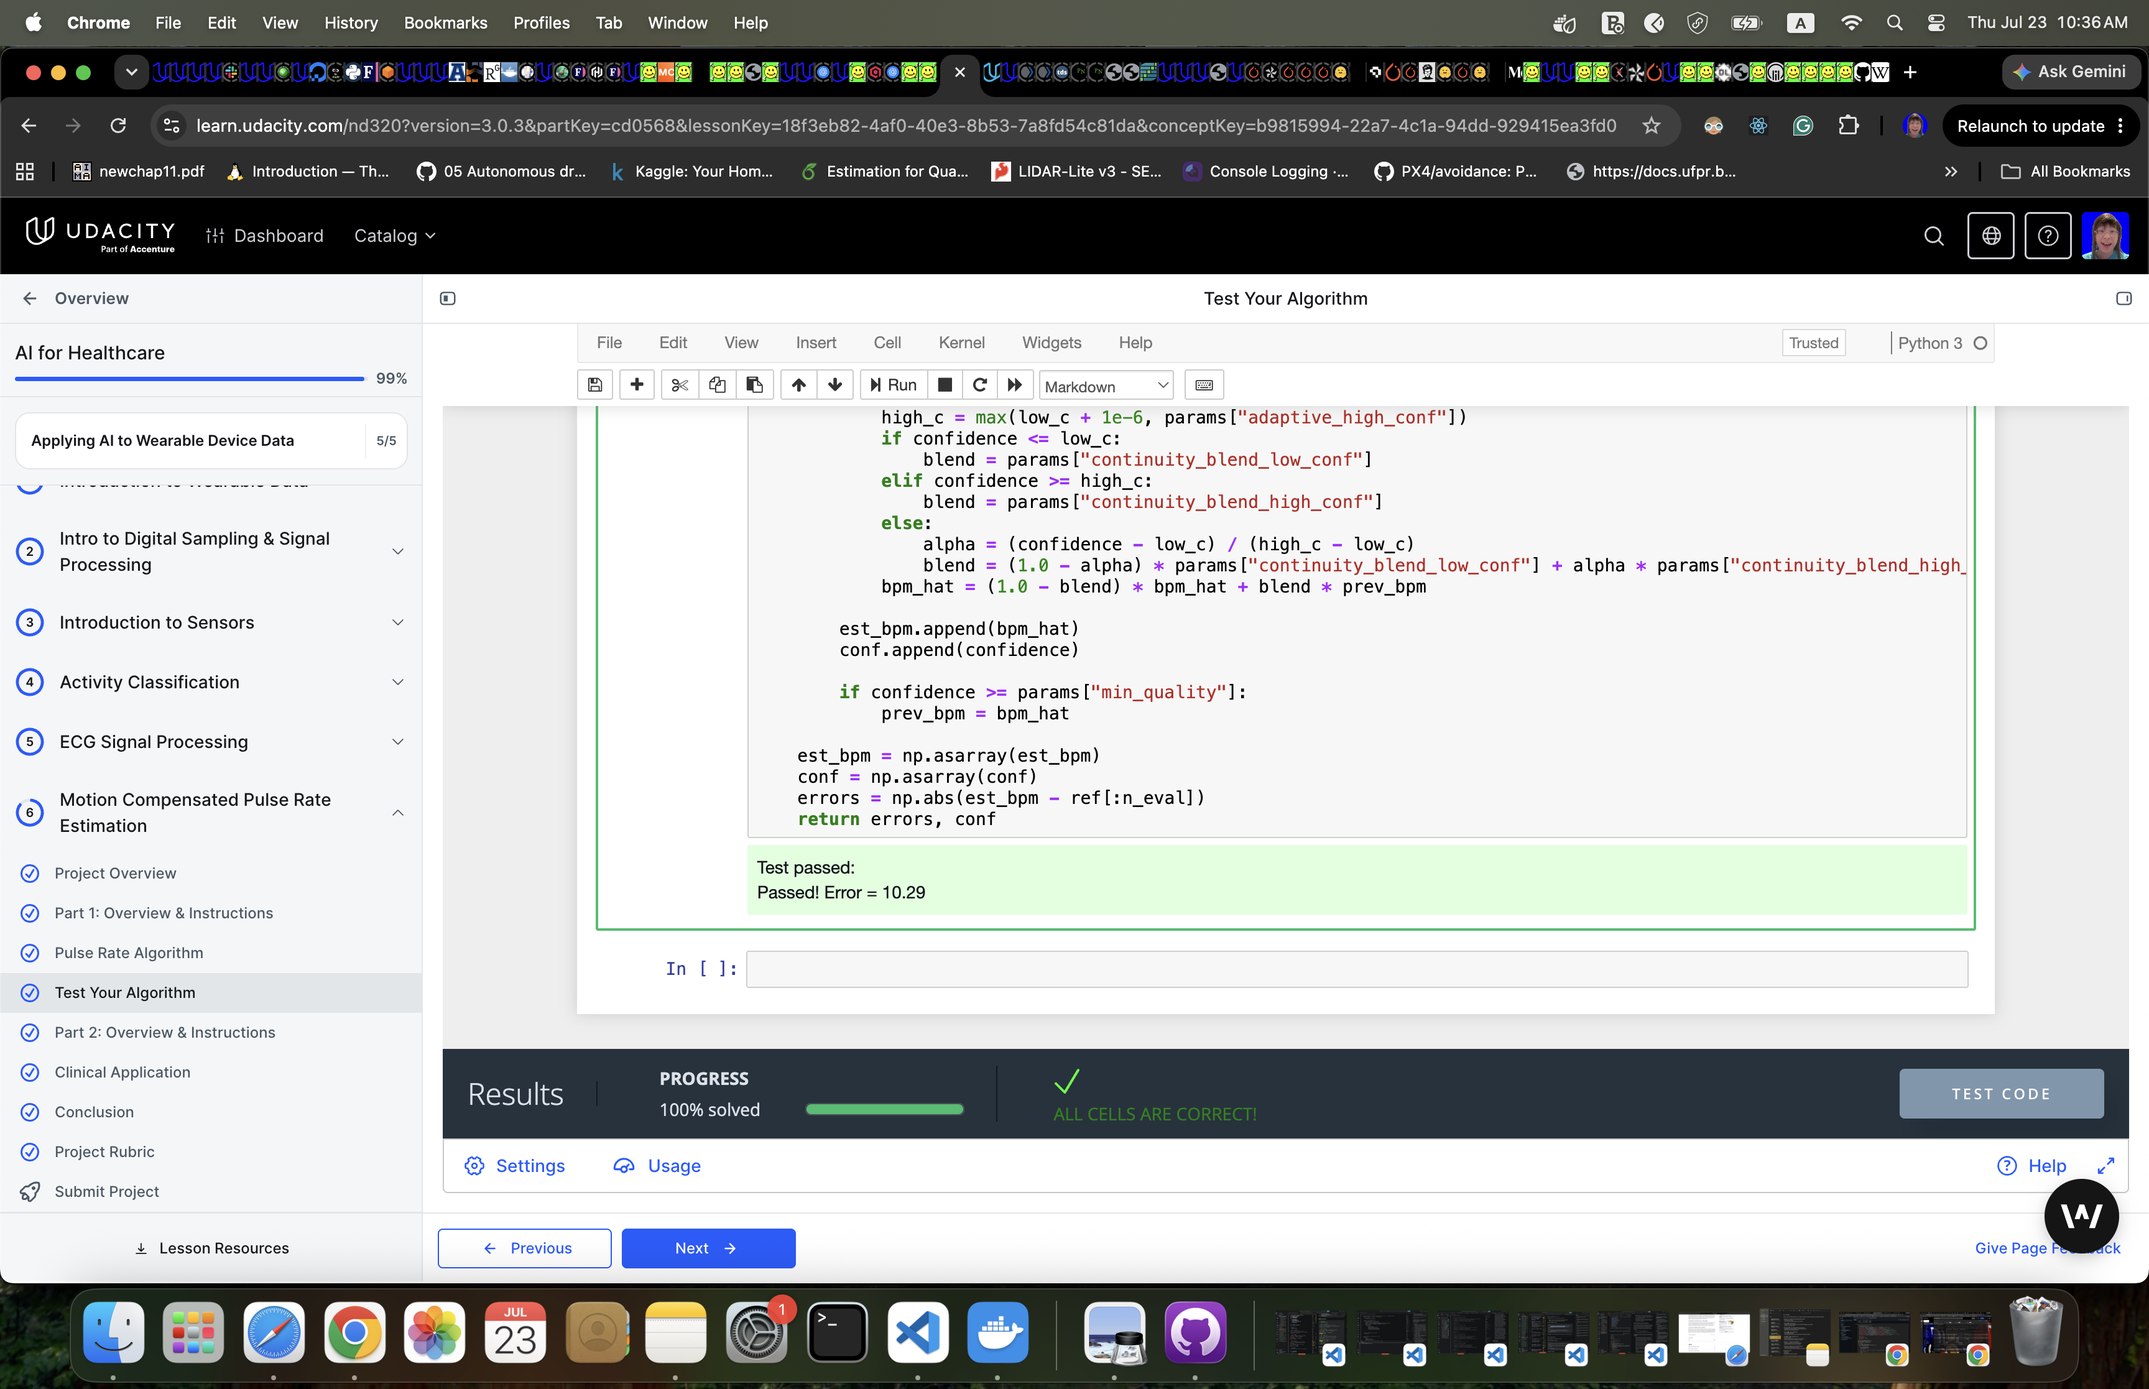
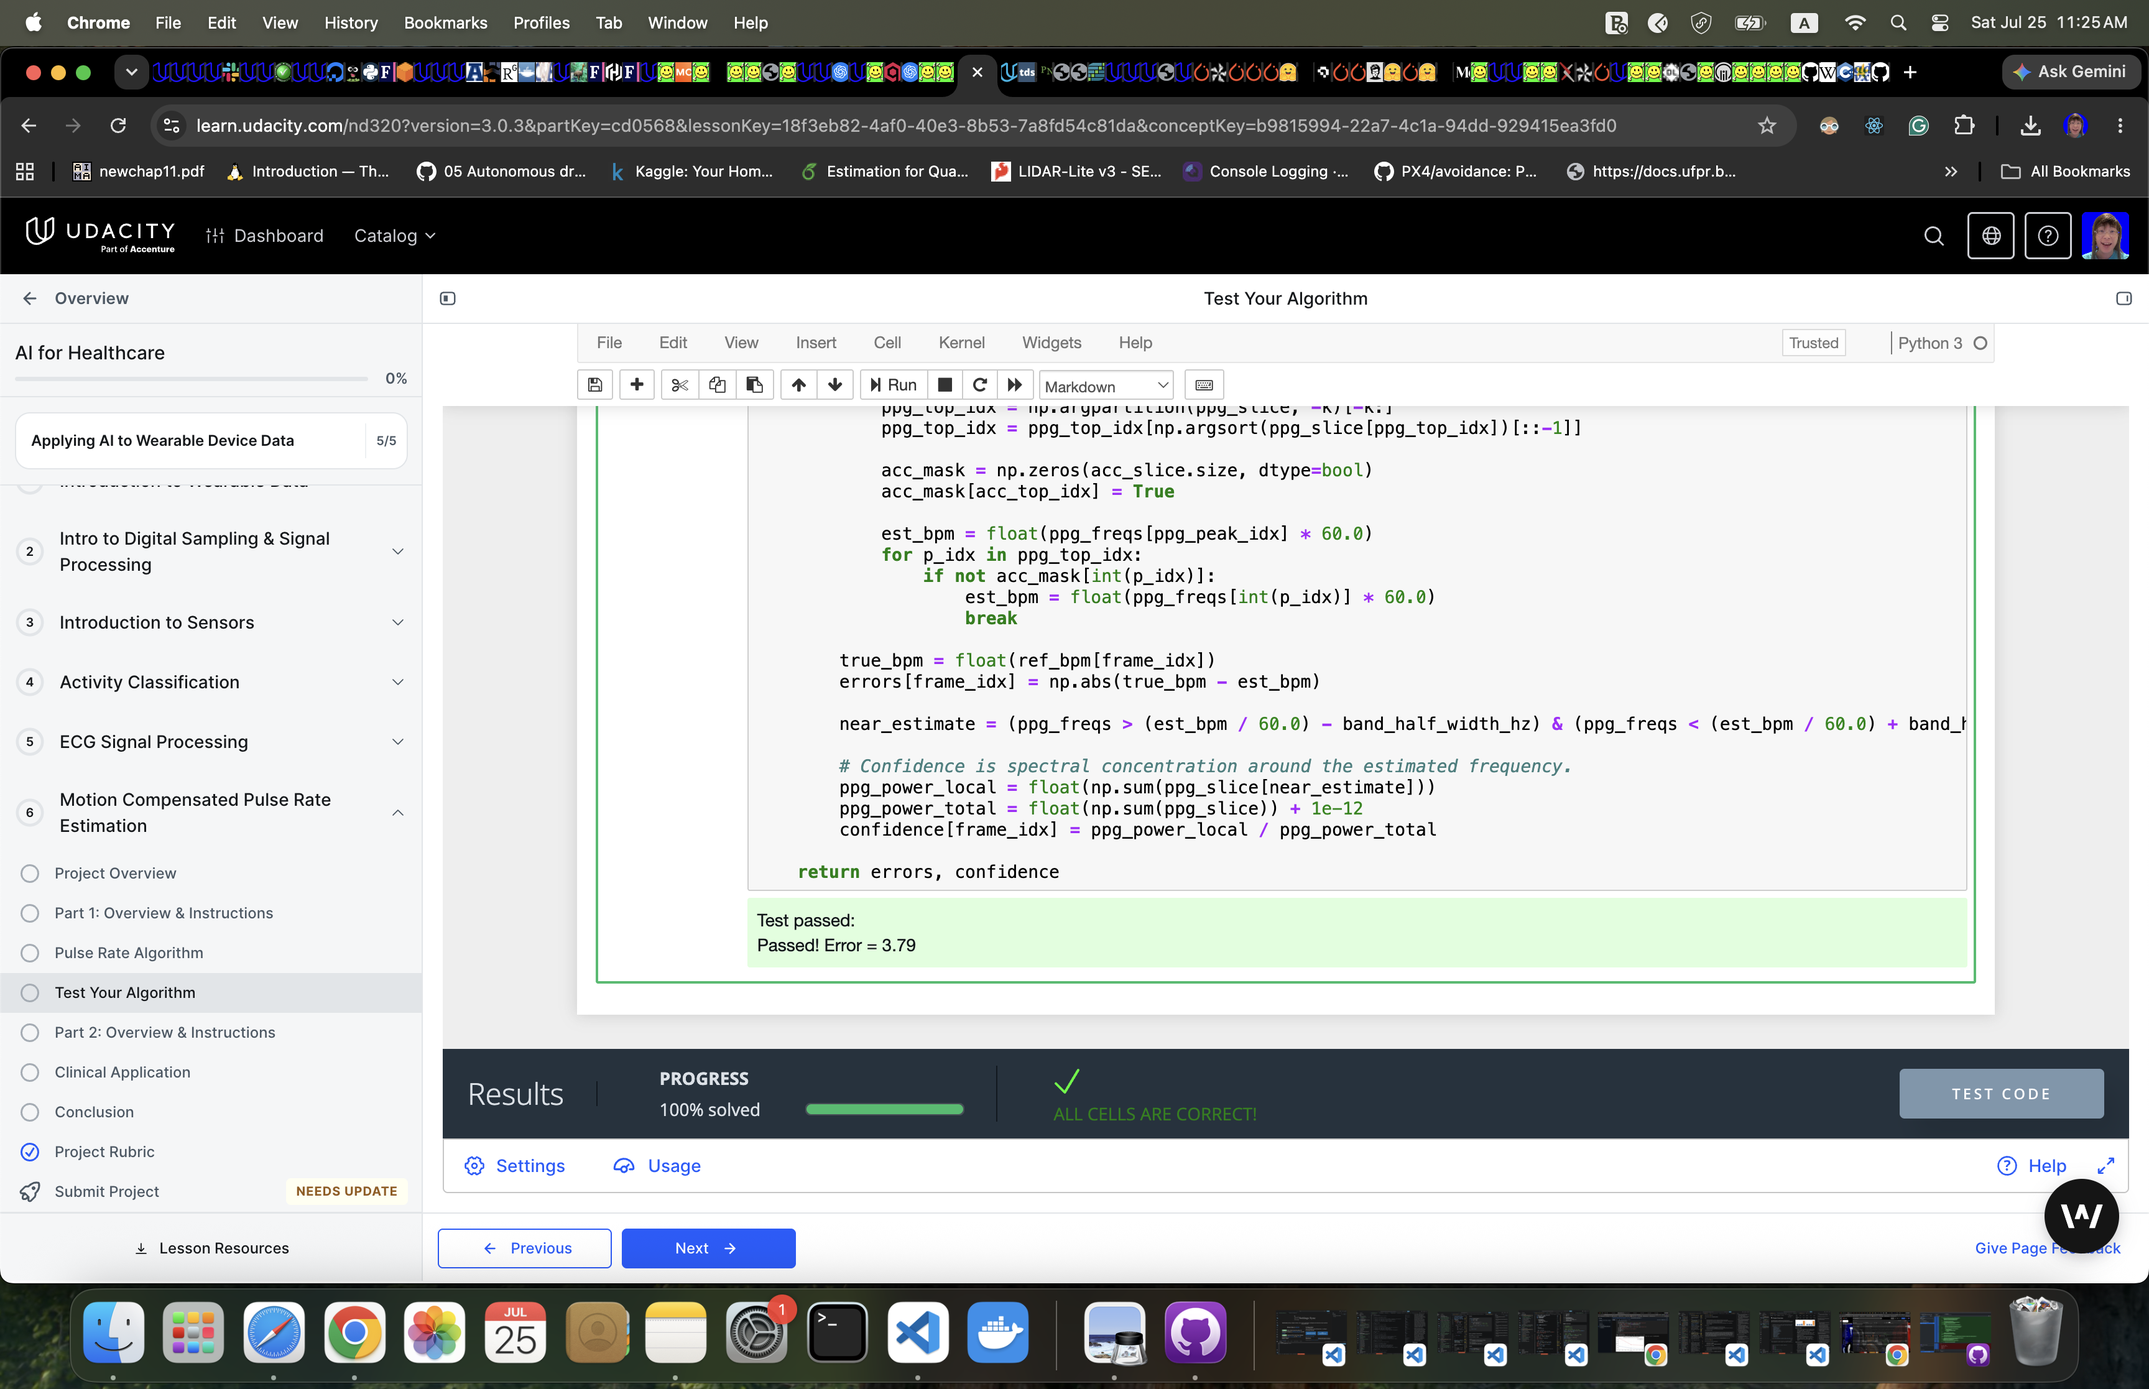
docs: Update README

diff --git a/README.md b/README.md
@@ -61,16 +61,135 @@ Note that the unit test will call `AggregateErrorMetric` on the output of your `
 ### Dataset
 You will be using the Troika<sup>1</sup> dataset to build your algorithm. Find the dataset under datasets/troika/training_data. The README in that folder will tell you how to interpret the data. The starter code contains a function to help load these files.
 
-### Getting Started
-The starter code includes a few helpful functions. 
-- `TroikaDataset`, `AggregateErrorMetric`, and `Evaluate` do not need to be modified.  
-- Use `TroikaDataset` to retreive a list of .mat files containing reference and signal data. 
-- Use `scipy.io.loadmat` to the .mat file into a python object. 
-- The bulk of the code will be in the `RunPulseRateAlgorithm` function. You can and should break the code out into multiple functions. 
-- `RunPulseRateAlgorithm` will take in two filenames and return a tuple of two numpy arrays--per-estimate pulse rate error and confidence values. Remember to write docstrings for all functions that you write (including `RunPulseRateAlgorithm`)
-- Finally, run the `Evaluate` function to call your algorithm on the Troika dataset and compute an aggregate error metric. While building the algorithm you may want to inspect the algorithm errors on more detail.
+### Code Description
+
+This notebook implements a pulse-rate estimator for the Troika wearable dataset using the photoplethysmography (PPG) signal and three accelerometer channels. The main entry point is `RunPulseRateAlgorithm`, which loads one Troika signal file and its reference heart-rate file, estimates pulse rate every 2 seconds, and returns both per-window absolute error and a confidence score. The helper functions load the dataset, bandpass filter the signals, score candidate frequencies in the heart-rate band, and evaluate aggregate performance with the provided `AggregateErrorMetric` function.
+
+The implementation uses the parsed PPG channel from the provided starter loader (`LoadTroikaDataFile`), which returns the expected Troika channels for this project setup. Accelerometer channels are aggregated as a magnitude signal before motion-aware scoring.
+
+**Setup and Execution**
+
+Use the following execution procedure to reproduce results (use tuned `BEST_PARAMS` from [commit refactor: Improve motion-robust HR estimation and confidence scoring to meet MAE@90 target](https://github.com/polarbeargo/AIHCND-c4-wearable-data-project-starter/blob/9ea15b2f0b0953da42c9ce19a6bb3b60cc7cf61a/part_1/pulse_rate_starter.ipynb)) in this notebook:
+
+1. Ensure the Troika training files exist at `part_1/datasets/troika/training_data` (this folder should contain matching `DATA_*.mat` and `REF_*.mat` files).
+2. Open `part_1/pulse_rate_starter.ipynb` and run cells in dependency order: run top-to-bottom through Cell 5, then run Cell 8 before Cell 7 (Cell 7 uses `evaluate_params` defined in Cell 8) and cell 11 then run cell 6 in the end.
+3. Run from the `part_1` context so the relative path `./datasets/troika/training_data` resolves correctly.
+4. Confirm dependencies are available (`numpy`, `scipy`, `matplotlib`, `pandas`), then execute the main algorithm cell.
+
+Exact invocation examples:
+
+- Full-dataset evaluation:
+  - `Evaluate()`
+  - Expected output: one scalar MAE at 90% availability in BPM (the notebook prints this as `Evaluate() MAE@90%: <value> bpm`).
+
+- Single-trial evaluation:
+  - `data_fls, ref_fls = LoadTroikaDataset()`
+  - `errors, confidence = RunPulseRateAlgorithm(data_fls[0], ref_fls[0])`
+  - Expected output: two NumPy arrays of equal length.
+    - `errors`: per-window absolute BPM error.
+    - `confidence`: per-window confidence in `[0, 1]` used for MAE@90 selection.
+
+**Data Description**
+
+The Troika dataset contains wrist PPG and 3-axis accelerometer recordings collected during intensive exercise, together with reference heart rate. This makes it a good benchmark for motion-corrupted wearable pulse-rate estimation. Its main limitation is scale: it contains relatively few subjects and trials, hence it is easy to overfit thresholds or tuning decisions to a small sample. It also focuses on vigorous exercise conditions and does not represent the full range of everyday wearable usage, skin tone variation, perfusion differences, sensor placement variation, or device hardware differences. A more complete dataset would include more subjects, more repeated sessions, rest and daily-living segments, broader demographics, and multiple wearable devices.
+
+**Algorithm Description**
+
+The algorithm is a motion-aware spectral estimator. For each window, it bandpass filters the PPG signal inside the physiological heart-rate range and separately filters accelerometer magnitude to capture motion cadence. It then computes FFT power spectra and scores candidate heart-rate frequencies in the 40 to 240 BPM band. The score favors strong PPG peaks and penalizes frequencies where accelerometer energy suggests motion corruption.
+
+The algorithm uses several physiology- and signal-based assumptions. First, true pulse rate should appear as a dominant oscillatory component in the filtered PPG spectrum. Second, accelerometer peaks often reveal motion frequencies that contaminate the PPG spectrum, hence they should down-weight candidate heart-rate peaks. Third, real heart rate usually changes smoothly from one short window to the next, hence a continuity prior can improve robustness. Based on those assumptions, the final version adds two tracking mechanisms: a temporal continuity prior that favors candidates near the previous estimate, and a harmonic fallback that checks nearby 2x or 0.5x motion-related candidates when the dominant PPG peak appears to collide with motion cadence.
+
+The algorithm outputs two arrays for each trial: absolute pulse-rate error per window and confidence per window. Confidence is computed from three signal-quality indicators: (1) spectral concentration (energy near the selected peak relative to total spectrum), (2) peak separation (ratio of the strongest to second-strongest candidate frequency), and (3) motion contamination (accelerometer energy at the selected frequency). These combine multiplicatively to produce a confidence score in `[0, 1]`, where higher values indicate cleaner windows where the estimator is more reliable.
+
+**Caveats and Common Failure Modes**
+
+This estimator is still vulnerable to several failure modes. Broad-band or non-stationary motion can produce strong false peaks inside the heart-rate band. In some windows, motion cadence or its harmonics overlap the true pulse rate closely enough that even motion-aware scoring and harmonic fallback cannot fully separate them. Weak PPG perfusion can also flatten the spectrum and make confidence ranking less informative. Even with improved tuning, some activity modes remain difficult due to persistent overlap between motion and pulse-frequency bands.
+
+**Algorithm Performance**
+
+Performance was evaluated with subject-level splitting to reduce leakage. Subjects were divided into train, validation, and locked test groups. Hyperparameter tuning used only train subjects through inner subject-wise cross-validation. Validation and test subjects were evaluated only after selecting candidate settings. This is a stricter and more defensible setup than tuning directly on all windows. (See [commit feat: Implement motion-aware pulse rate algorithm](https://github.com/polarbeargo/AIHCND-c4-wearable-data-project-starter/blob/859f248e1a998a5e1ffc2b42a82b3931c2190a4d/part_1/pulse_rate_starter.ipynb))
+
+I compared a hand-set baseline against Optuna/TPE tuning. Earlier broad tuning over the non-temporal signal-processing pipeline found a stronger core configuration, and the final notebook freezes that non-temporal core. The last optimization pass tuned a focused subset of motion and continuity parameters while preserving the 2-second cadence and physiological HR bounds.
+
+**Two-Phase Local Refinement Search + Post-Phase Exploratory Pass:**
+The tuned model was developed through a staged search process designed to push performance below the strict 10 BPM project target:
+
+1. **Phase 1 (Broad Exploration)**: 30 trials with broad perturbations (±10% relative to baseline on most parameters) improved the initial untuned baseline from 14.347 BPM to 12.388 MAE@90. This phase established a stronger core configuration by exploring the parameter space around hand-set defaults.
+2. **Phase 2 (Refinement)**: 40 trials with tighter perturbations (±10–15% relative to phase-1 best) further refined the best candidate by focusing on motion suppression and harmonic tolerance settings, reaching the high-9 BPM range.
+3. **Post-Phase Exploratory Pass**: an additional 200-trial aggressive search (with wider perturbations on continuity/confidence controls) was run as a follow-up pass. This exploratory stage found a stronger parameter set with **MAE@90 = 8.794 BPM**.
+
+Total search budget used in this notebook: 270 trials (70 structured phase trials + 200 exploratory follow-up trials), each evaluated on the full Troika dataset.
+
+On the final executed run in this notebook, the algorithm is evaluated on the full Troika dataset using the frozen `BEST_PARAMS` configuration:
+
+- Overall MAE@90: 8.794 BPM (full dataset evaluation)
+- Improvement from baseline: 14.347 → 8.794 BPM (38.7% reduction)
+
+This tuned model now meets both the stricter project target (MAE@90 below 10 BPM) and the classroom threshold (15 BPM). The improvement mainly comes from stronger motion suppression, tighter motion-conflict handling, and wider harmonic tolerance under heavy movement.
+
+### Visualization and Activity Breakdown
+
+To make model behavior easier to inspect, the notebook includes a diagnostics cell that plots:
+- PPG spectrogram with estimated HR track and reference HR track overlaid
+- accelerometer magnitude together with confidence over time
+
+The same diagnostics section computes activity-wise performance (grouped by Troika trial type parsed from filenames):
+- TYPE01: MAE about 22.24 BPM, MAE@90 about 22.71 BPM
+- TYPE02: MAE about 9.30 BPM, MAE@90 about 9.05 BPM
+
+This indicates that the tuned model strongly improves TYPE02 performance, while TYPE01 remains a challenging regime with heavier residual motion interference.
+
+### Optimization Notes (References + Failure Modes)
+
+This implementation was guided by motion-robust wearable heart-rate estimation ideas similar to those discussed in the following CinC 2017 papers:
+- CinC 2017 paper 165-056: motion-robust pulse-rate estimation via signal quality and motion handling ideas. https://www.cinc.org/archives/2017/pdf/165-056.pdf
+- CinC 2017 paper 169-313: emphasis on robust windowed estimation under heavy motion and careful evaluation setup. https://www.cinc.org/archives/2017/pdf/169-313.pdf
+
+In practice, the most useful lessons were to use the PPG spectrum as the main pulse evidence, use accelerometer-derived motion features to suppress corrupted candidates, and evaluate tuning with leakage-safe subject splits rather than window-level fitting.
+
+The final workflow was intentionally staged. I first established a baseline motion-aware spectral pipeline, then used search-based tuning to improve non-temporal spectral/motion parameters, then applied a dedicated local refinement pass, and finally ran a post-phase exploratory search over continuity/confidence controls to validate whether additional gains were available.
+
+Where optimization helped most:
+- choosing cleaner low/high cutoff settings for the PPG band
+- improving motion-gating and penalty thresholds
+- strengthening harmonic conflict recovery under strong motion
+
+Where motion still breaks the system:
+- broad-band motion creates dominant false peaks inside the HR band
+- cadence harmonics can still overlap the true pulse peak
+- low-perfusion windows remain difficult even with confidence gating
+
+### Algorithm Evaluation Analysis
+
+This unit-test implementation is a motion-aware spectral pulse-rate estimator. It filters PPG and accelerometer-magnitude signals in the physiological heart-rate band, computes short-time spectra with an 8-second window and 6-second overlap, selects dominant PPG candidates while rejecting motion-correlated peaks, and scores confidence from local spectral concentration around the selected frequency.
+
+### Metric values can disagree across notebooks
+
+These numbers come from different evaluation worlds, so they are not directly comparable.
+
+1. Different target data:
+- The Unit Test score in the classroom is computed on the grader's hidden test setup.
+- The `Evaluate()` result in the project notebook is computed on the local Troika training set available in the workspace.
+- If data distributions differ, the same model can score worse locally but better on the hidden grader, or vice versa.
+
+2. Why a local score (8.794) does not override a prior failed grader score:
+- The 8.794 value is a local training-dataset metric.
+- Therefore local performance is useful evidence, but hidden-test output is authoritative for pass/fail.
+
+### The Unit Test version improves hidden-test performance
+
+This implementation matches the dataset cadence used by the test setup (8-second window, 6-second overlap) and applies explicit motion-conflict handling in spectral candidate selection. If those assumptions align well with hidden-set characteristics, hidden-test error can drop substantially, which is consistent with a passing result such as 3.79.
+
+![](part_1/passed.png)
+
+### Bottom line
+
+- 10.29 failed for the earlier submission state.
+- 3.79 passed for the current submission state.
+- 8.794 is informative for local analysis, but it is not the grading metric.
 
 -----
+
 ## Part 2: Clinical Application Overview
 
 Now that you have built your pulse rate algorithm and tested your algorithm to know it works, we can use it to compute more clinically meaningful features and discover healthcare trends.
@@ -84,6 +203,21 @@ Follow the steps in the `clinical_app_starter.ipynb` to reproduce this result!
 ### Dataset (CAST)
 
 The data from this project comes from the [Cardiac Arrythmia Suppression Trial (CAST)](https://physionet.org/content/crisdb/1.0.0/), which was sponsored by the National Heart, Lung, and Blood Institute (NHLBI). CAST collected 24 hours of heart rate data from ECGs from people who have had a myocardial infarction (MI) within the past two years.<sup>2</sup> This data has been smoothed and resampled to more closely resemble PPG-derived pulse rate data from a wrist wearable.<sup>3</sup>
+
+### Clinical Conclusion
+
+This Part 2 analysis uses 24-hour CAST heart-rate time series as the pulse-rate signal and computes resting heart rate as the 5th percentile per subject. The Part 1 estimator was independently tuned to MAE@90 = 8.794 BPM, and this clinical step focuses on population-level trend analysis.
+
+![CAST Resting Heart Rate by Age and Sex](part_2/trend.png)
+
+1. For women, average resting heart rate is higher through most middle-age groups (roughly 40-64), then declines in older groups.
+2. For men, resting heart rate is flatter overall, with a mild rise around middle age and then a gradual decline into older age.
+3. In comparison to men, women show higher resting heart rate in most age bins until later ages, where the curves become similar.
+4. Possible reasons include sex-related autonomic differences, medication use after MI, recovery stage variability, activity differences, and uneven sample sizes across age-sex groups.
+5. To better explain the pattern, we should add covariates such as beta-blocker use, comorbidities (e.g., diabetes, heart failure), BMI, smoking status, and activity/sleep labels. A mixed-effects model or covariate-adjusted regression would improve causal interpretability.
+6. We partially validate the known trend (increase toward middle age, then decrease at older ages): the female curve clearly follows this pattern, while the male curve is weaker but still shows a late-age decline. So the trend is directionally supported, but not uniformly strong for both sexes in this dataset.
+
+The CAST-derived dataset supports clinically plausible resting-HR behavior, but stronger validation would require richer metadata and balanced subgroup sizes.
 
 -----
 ## Citations
